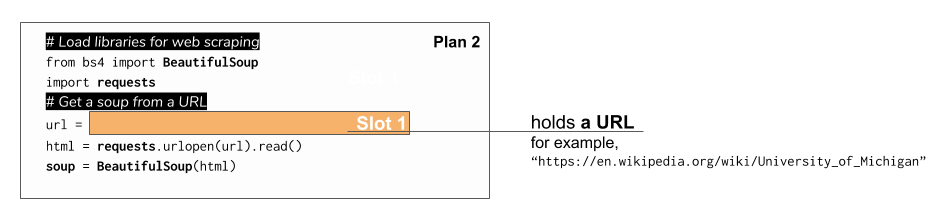
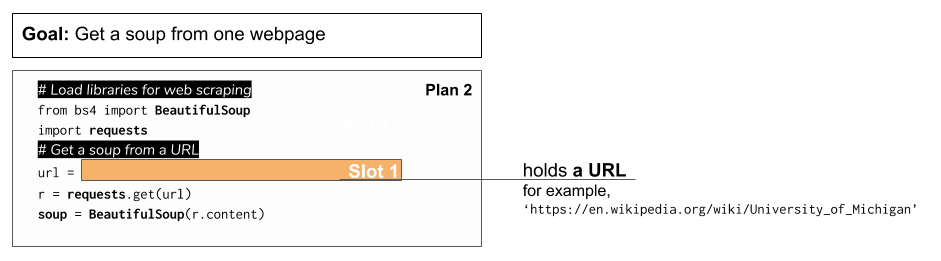
Update plan content

Changed region(s): [[0.0, 0.0826, 0.9957, 0.9633], [0.0, 0.0275, 0.529, 0.055]]

diff --git a/_sources/plan3.rst b/_sources/plan3.rst
@@ -18,42 +18,75 @@
    :prefix: p3-
 
 
-Plan 3: Example
+Plan 2: Example
 ====================================
 
+Maybe we want to get information from the University of Michigan wikipedia page.
 
-Plan 3: Outline
+The first step in web scraping is getting information from a webpage.
+
+Here is the code for preparing to get information from the University of Michigan wikipedia page. 
+
+
+.. activecode:: umich_plan1
+   :language: python
+   :nocodelens:
+
+   # Load libraries for web scraping
+   from bs4 import BeautifulSoup
+   import requests
+
+   # Get a soup from a URL 
+   url = 'https://en.wikipedia.org/wiki/University_of_Michigan'
+   r = requests.get(url)
+   soup = BeautifulSoup(r.content)
+
+In this code, we get a **soup** from the **University of Michigan wikipedia page**. A soup is something that we can get information from using BeautifulSoup.
+
+Plan 2: Outline
 ====================================
 
-Goal: 
-
-.. image:: _static/plan1outline.png
-    :scale: 90%
+.. image:: _static/plan2outline.png
+    :scale: 100%
     :align: center
-    :alt: Plan 1 outline
+    :alt: Plan 2 outline
 
 
-
-Plan 3: Exercises
+What are URL endings?
 ====================================
 
-This is filler text.
+A URL is a web address, like you see in your web browser. It should be complete (starting with http:// or https://). 
 
-.. dragndrop:: dnd1
-    :feedback: This is feedback.
-    :match_1: Drag me to 1|||I am 1
-    :match_2: Drag me to 2|||I am 2
-    :match_3: Drag me to 3|||I am 3
+In this plan, a URL should be surrounded by quotes (:code:`''`).
 
-    This is a drag n drop question.
 
-.. dragndrop:: order
-    :feedback: This is feedback.
-    :match_1: Plan #10 ||| # Get the webpage
-    :match_2: Plan #4 ||| # Extract info from the page
-    :match_3: Plan #3 ||| # Do something with the info
+Plan 2: Exercises
+====================================
 
-    This is a drag n drop question.
+What parts of this plan are changeable?
 
+.. clickablearea:: umich_plan2_click
+    :question: If you wanted to get a soup from the MDen website, which part(s) of the code below would you change?
+    :iscode:
+    :feedback: Check out the plan outline above to identify the slot.
+
+    # Load libraries for web scraping
+    :click-incorrect:from bs4 import BeautifulSoup:endclick:
+    :click-incorrect:import requests:endclick:
+
+    # Get a soup from a URL 
+    :click-incorrect:url =:endclick: :click-correct:'https://en.wikipedia.org/wiki/University_of_Michigan':endclick:
+    :click-incorrect:r = requests.get(url):endclick:
+    :click-incorrect:soup = BeautifulSoup(r.content)::endclick:
+
+.. parsonsprob:: plan2
+
+   Choose the subgoals that achieve **Get a soup from a webpage**, and put them in the right order.
+   -----
+   # Load libraries for web scraping
+   =====
+   # Get a soup from a URL 
+   =====
+   # Get a soup from the University of Michigan wikipedia page #distractor
 
 

diff --git a/_sources/plan2.rst b/_sources/plan2.rst
@@ -21,20 +21,96 @@
 Plan 2: Example
 ====================================
 
+Maybe we want to get information from the University of Michigan wikipedia page.
+
+The first step in web scraping is getting information from a webpage.
+
+Here is the code for preparing to get information from the University of Michigan wikipedia page. 
+
+
+.. activecode:: umich_plan1
+   :language: python
+   :nocodelens:
+
+   # Load libraries for web scraping
+   from bs4 import BeautifulSoup
+   import requests
+
+   # Get a soup from a URL 
+   url = 'https://en.wikipedia.org/wiki/University_of_Michigan'
+   r = requests.get(url)
+   soup = BeautifulSoup(r.content)
+
+In this code, we get a **soup** from the **University of Michigan wikipedia page**. A soup is something that we can get information from using BeautifulSoup.
 
 Plan 2: Outline
 ====================================
 
-Goal: 
-
 .. image:: _static/plan2outline.png
-    :scale: 90%
+    :scale: 100%
     :align: center
     :alt: Plan 2 outline
 
+
+What is a URL?
+====================================
+
+A URL is a web address, like you see in your web browser. It should be complete (starting with http:// or https://). 
+
+In this plan, a URL should be surrounded by quotes (:code:`''`).
 
 
 Plan 2: Exercises
 ====================================
 
+What parts of this plan are changeable?
 
+.. clickablearea:: umich_plan2_click
+    :question: If you wanted to get a soup from the MDen website, which part(s) of the code below would you change?
+    :iscode:
+    :feedback: Check out the plan outline above to identify the slot.
+
+    # Load libraries for web scraping
+    :click-incorrect:from bs4 import BeautifulSoup:endclick:
+    :click-incorrect:import requests:endclick:
+
+    # Get a soup from a URL 
+    :click-incorrect:url =:endclick: :click-correct:'https://en.wikipedia.org/wiki/University_of_Michigan':endclick:
+    :click-incorrect:r = requests.get(url):endclick:
+    :click-incorrect:soup = BeautifulSoup(r.content)::endclick:
+
+.. fillintheblank:: plan2_fill
+
+   Fill in the plan in order to get a soup from the Cottage Inn website.
+
+   ``# Load libraries for web scraping``
+
+   ``from bs4 import BeautifulSoup``
+
+   ``import requests``
+
+   ``# Get a soup from a URL`` 
+
+   ``url =`` |blank|
+
+   ``r = requests.get(url)``
+
+   ``soup = BeautifulSoup(r.content)``
+
+
+   -    :'https://cottageinn.com': Correct.  
+        :https://cottageinn.com: Remember that URLs in this plan should have quotes around them.
+        :.*: Use 5 in the second blank
+
+.. parsonsprob:: plan2_parsons
+
+   Choose the subgoals that achieve **Get a soup from a webpage**, and put them in the right order.
+   -----
+   # Load libraries for web scraping
+   =====
+   # Get a soup from a URL 
+   =====
+   # Get a soup from the University of Michigan wikipedia page #distractor
+
+
+ 

diff --git a/_sources/plan1.rst b/_sources/plan1.rst
@@ -7,9 +7,8 @@
     the license is included in the section entitled "GNU Free Documentation
     License".
 
-
-..  shortname:: Overview
-..  description:: This is an overview chapter for the web site.
+..  shortname:: Plan1
+..  description:: Worked examples plus practice for Plan 1.
 
 .. setup for automatic question numbering.
 
@@ -25,15 +24,44 @@ Plan 1: Example
 Plan 1: Outline
 ====================================
 
+Goal: 
+
 .. image:: _static/plan1outline.png
     :scale: 90%
     :align: center
     :alt: Plan 1 outline
 
 
+.. image:: _static/PythonTutor.gif
+    :scale: 90%
+    :align: center
+    :alt: Plan 1 outline
+
+
+
 
 Plan 1: Exercises
 ====================================
+
+This is filler text.
+
+.. dragndrop:: dnd1
+    :feedback: This is feedback.
+    :match_1: Drag me to 1|||I am 1
+    :match_2: Drag me to 2|||I am 2
+    :match_3: Drag me to 3|||I am 3
+
+    This is a drag n drop question.
+
+This is filler text.
+
+.. dragndrop:: order
+    :feedback: This is feedback.
+    :match_1: Plan #10 ||| # Get the webpage
+    :match_2: Plan #4 ||| # Extract info from the page
+    :match_3: Plan #3 ||| # Do something with the info
+
+    This is a drag n drop question.
 
 
 

diff --git a/_sources/plan5.rst b/_sources/plan5.rst
@@ -21,6 +21,10 @@
 Plan 5: Example
 ====================================
 
+Some more tags
+====================================
+
+
 
 Plan 5: Outline
 ====================================
@@ -39,7 +43,7 @@ Plan 5: Exercises
 
 This is filler text.
 
-.. dragndrop:: dnd1
+.. dragndrop:: dnd
     :feedback: This is feedback.
     :match_1: Drag me to 1|||I am 1
     :match_2: Drag me to 2|||I am 2
@@ -47,7 +51,7 @@ This is filler text.
 
     This is a drag n drop question.
 
-.. dragndrop:: order
+.. dragndrop:: orde
     :feedback: This is feedback.
     :match_1: Plan #10 ||| # Get the webpage
     :match_2: Plan #4 ||| # Extract info from the page

diff --git a/_sources/plan10.rst b/_sources/plan10.rst
@@ -21,6 +21,10 @@
 Plan 10: Example
 ====================================
 
+What is a json file?
+====================================
+
+
 
 Plan 10: Outline
 ====================================

diff --git a/_sources/plan6.rst b/_sources/plan6.rst
@@ -21,6 +21,10 @@
 Plan 6: Example
 ====================================
 
+Even more tags?
+====================================
+
+
 
 Plan 6: Outline
 ====================================

diff --git a/_sources/plan4.rst b/_sources/plan4.rst
@@ -21,6 +21,9 @@
 Plan 4: Example
 ====================================
 
+What is a tag?
+====================================
+
 
 Plan 4: Outline
 ====================================
